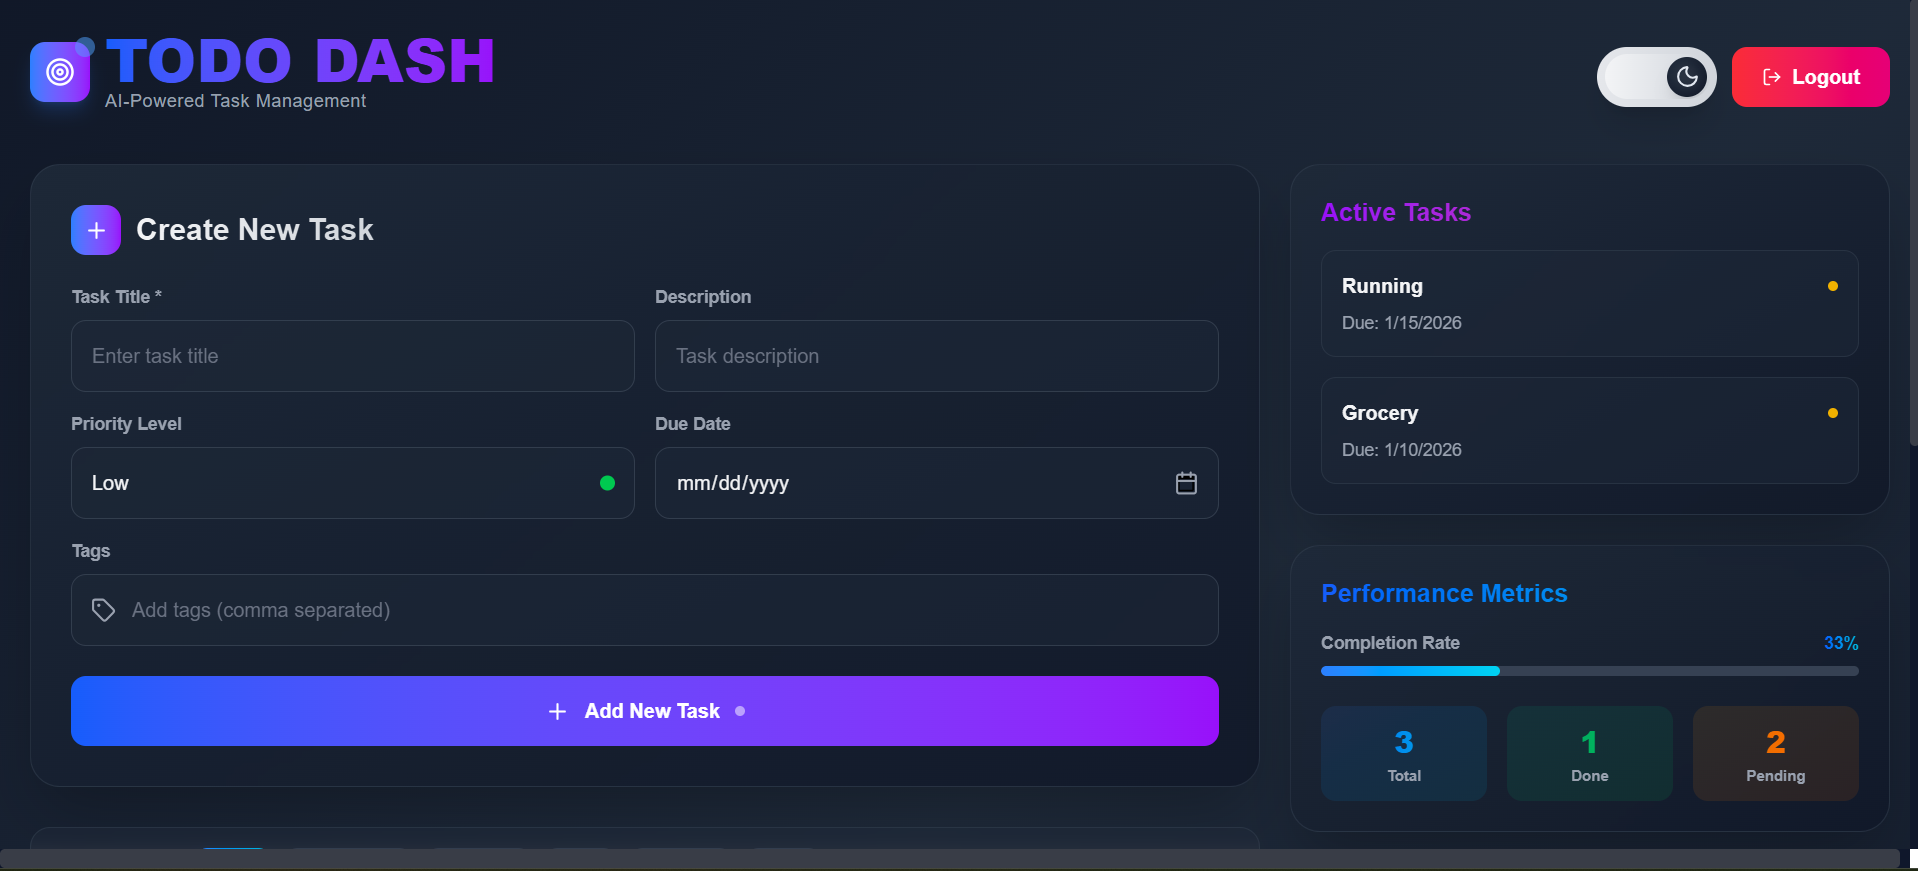
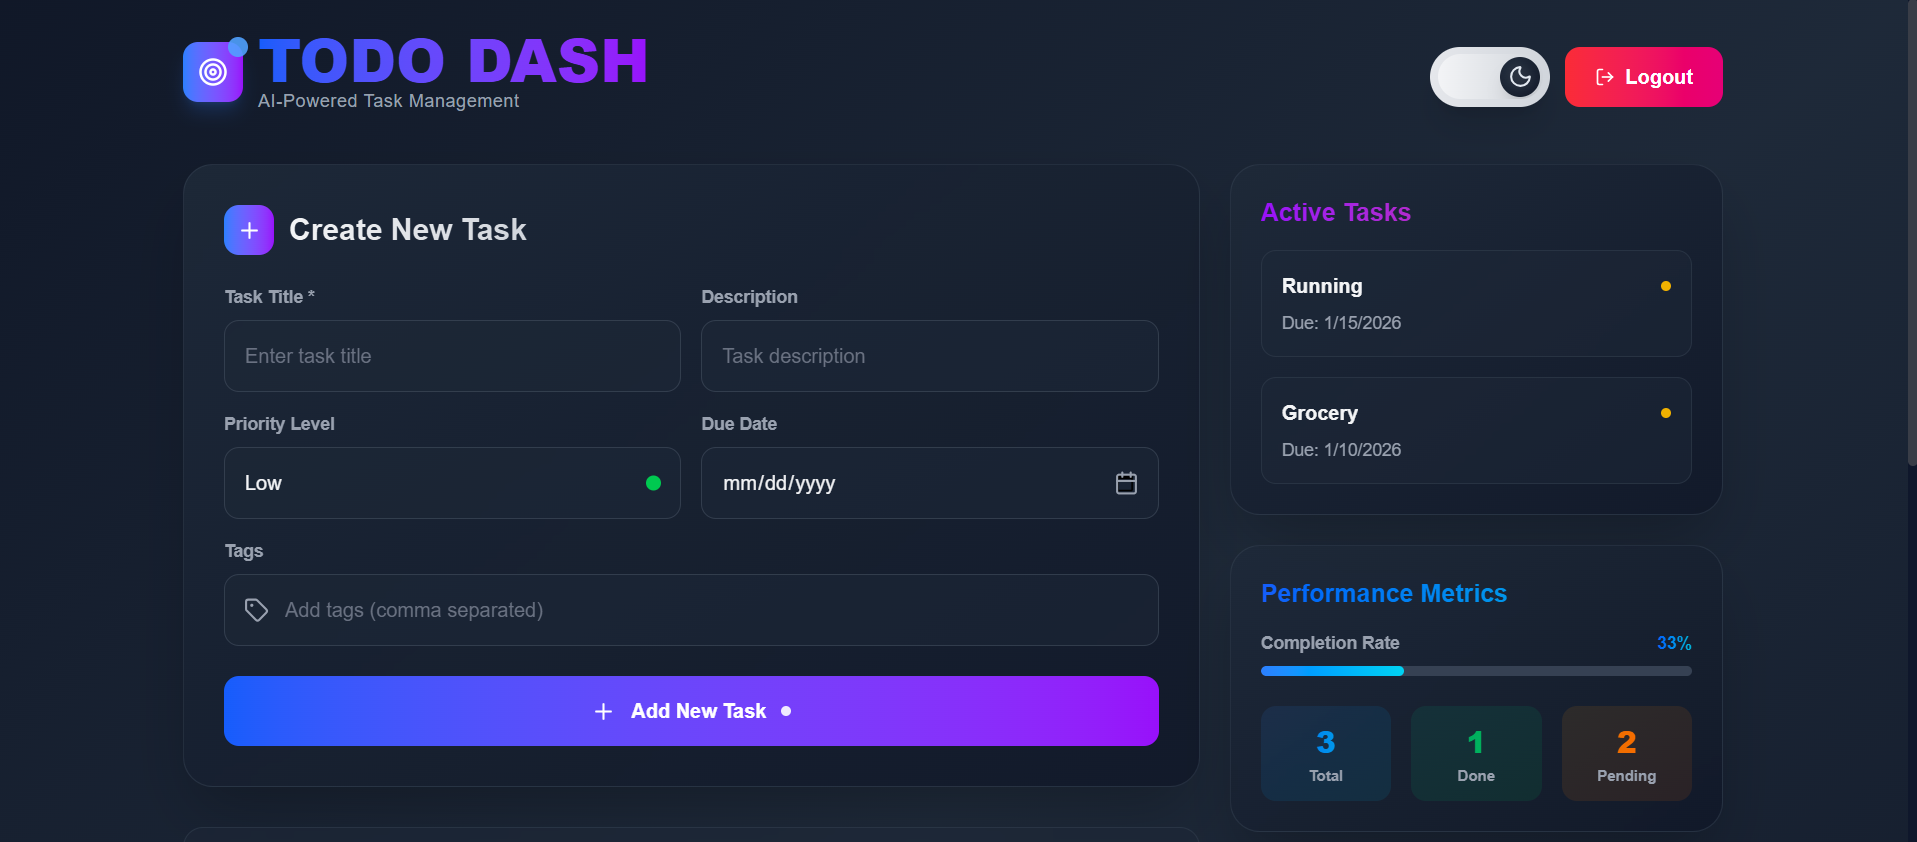
Sticky Side Bar UI Error Resolve

diff --git a/client/src/pages/Dashboard.jsx b/client/src/pages/Dashboard.jsx
@@ -72,7 +72,7 @@ export default function Dashboard() {
   };
 
   return (
-    <div className="min-h-screen w-full overflow-x-hidden theme-transition bg-linear-to-br from-gray-50 via-white to-blue-50 dark:from-gray-900 dark:via-gray-800 dark:to-gray-900 text-gray-900 dark:text-gray-100 transition-all duration-300">
+    <div className="min-h-screen w-full theme-transition bg-linear-to-br from-gray-50 via-white to-blue-50 dark:from-gray-900 dark:via-gray-800 dark:to-gray-900 text-gray-900 dark:text-gray-100 transition-all duration-300">
       <div className="mx-auto max-w-7xl p-3 sm:p-4 md:p-6">
       {/* Responsive Header */}
       <div className="flex flex-col sm:flex-row justify-between items-start sm:items-center gap-4 mb-6 sm:mb-8">
